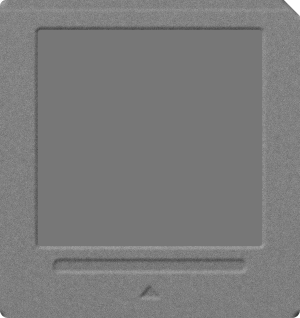
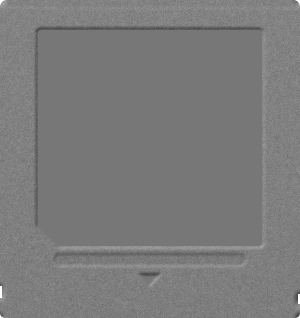
Align Nintendo DS Game Card model and label mask with authentic hardware references

diff --git a/tools/fragile/media/draw_carts.py b/tools/fragile/media/draw_carts.py
@@ -350,39 +350,75 @@ def nes():
 
 
 def nds():
-    """A Nintendo DS Game Card (NTR-005), face on (35.0mm x 33.0mm, scaled to 300x318):
-    square-like silhouette with rounded corners, a 45-degree keying chamfer notch at the
-    top-right, a recessed square label well, a subtle thumb grip groove across the lower
-    section, and an upward insertion arrow centered at the bottom."""
+    """A Nintendo DS Game Card (NTR-005), face on (33.0mm x 35.0mm, scaled to 300x318):
+    square-like silhouette with rounded corners, side keying slots near the bottom,
+    a recessed square label well with a 45-degree chamfer cutout at the bottom-left,
+    a subtle thumb grip groove across the lower chin, and a downward insertion arrow
+    centered below the label."""
     W, H = 300, 318
     s = Shell(W, H, seed=4, face=3.0, deepest=2.5)
 
-    # 1. Base outline: rounded corners, top-right chamfer
-    s.outline(0, 0, W, H, radii=(6, 2, 8, 8))
+    # 1. Base outline: rounded corners all around (top r=7, bottom r=5)
+    s.outline(0, 0, W, H, radii=(7, 7, 5, 5))
 
-    # Top-right 45-degree chamfer notch (16px cut)
-    def in_chamfer(x, y):
-        return x >= W - 16 and y <= 16 and (x - (W - 16)) + (16 - y) >= 16
+    # Side keying notches on left and right edges near bottom
+    s.cut(0, 286, 2, 298)
+    s.cut(W - 2, 294, W, 304)
 
-    for i, c in s.cover(in_chamfer, (W - 18, 0, W, 18)):
-        s.mask[i] *= 1 - c
+    # Top edge bevel / rim (y: 0..8)
+    s.height(0, 0, W, 8, 2.7)
+    s.height(0, 8, W, H, 3.0)
 
-    # Top edge bevel / rim (y: 0..10)
-    s.height(0, 0, W, 10, 2.5)
-    s.height(0, 10, W, H, 3.0)
-
-    # 2. Label well: recessed, almost square (224x216)
+    # 2. Label well: recessed, 224x216, at (38, 30)
     lx0, ly0, lx1, ly1 = 38, 30, 262, 246
-    s.height(lx0 - 1.5, ly0 - 1.5, lx1 + 1.5, ly1 + 1.5, 1.2, radii=(4, 4, 4, 4))
-    s.paint(lx0, ly0, lx1, ly1, LABEL, r=3)
+    chamfer = 20.0
 
-    # 3. Lower thumb grip groove (y: 260..272, x: 54..246)
-    gx0, gy0, gx1, gy1 = 54, 260, 246, 272
-    s.height(gx0, gy0, gx1, gy1, 1.5, r=5)
+    def in_label(x, y):
+        if not (lx0 <= x < lx1 and ly0 <= y < ly1):
+            return False
+        # Top-left, top-right, bottom-right radii (r=4)
+        for rr, cx, cy, left, top in (
+            (4, lx0 + 4, ly0 + 4, True, True),
+            (4, lx1 - 4, ly0 + 4, False, True),
+            (4, lx1 - 4, ly1 - 4, False, False),
+        ):
+            if (x < cx if left else x > cx) and (y < cy if top else y > cy):
+                if (x - cx) ** 2 + (y - cy) ** 2 > rr * rr:
+                    return False
+        # Bottom-left 45-degree chamfer
+        if x < lx0 + chamfer and y > ly1 - chamfer:
+            if (lx0 + chamfer - x) + (y - (ly1 - chamfer)) > chamfer:
+                return False
+        return True
 
-    # 4. Upward insertion arrow centered at bottom (x: 150, y: 286..298)
+    # Well height recess (1.2 height vs 3.0 face)
+    def in_well(x, y):
+        wx0, wy0, wx1, wy1 = lx0 - 1.5, ly0 - 1.5, lx1 + 1.5, ly1 + 1.5
+        wch = chamfer + 1.5
+        if not (wx0 <= x < wx1 and wy0 <= y < wy1):
+            return False
+        for rr, cx, cy, left, top in (
+            (4, wx0 + 4, wy0 + 4, True, True),
+            (4, wx1 - 4, wy0 + 4, False, True),
+            (4, wx1 - 4, wy1 - 4, False, False),
+        ):
+            if (x < cx if left else x > cx) and (y < cy if top else y > cy):
+                if (x - cx) ** 2 + (y - cy) ** 2 > rr * rr:
+                    return False
+        if x < wx0 + wch and y > wy1 - wch:
+            if (wx0 + wch - x) + (y - (wy1 - wch)) > wch:
+                return False
+        return True
+
+    s.height_where(in_well, (lx0 - 2, ly0 - 2, lx1 + 2, ly1 + 2), 1.2)
+    s.paint_where(in_label, (lx0, ly0, lx1, ly1), LABEL)
+
+    # 3. Lower thumb grip groove across the chin: y: 254..266, x: 54..246
+    s.height(54, 254, 246, 266, 2.0, r=6)
+
+    # 4. Downward insertion arrow centered on chin: x: 150, pointing DOWN
     mid = W / 2.0
-    tri = [(mid, 286.0), (mid - 10.0, 298.0), (mid + 10.0, 298.0)]
+    tri = [(mid - 11.0, 274.0), (mid + 11.0, 274.0), (mid, 286.0)]
 
     def in_arrow(x, y):
         (ax, ay), (bx, by), (cx, cy) = tri
@@ -393,7 +429,7 @@ def nds():
         pos = d1 > 0 or d2 > 0 or d3 > 0
         return not (neg and pos)
 
-    s.height_where(in_arrow, (mid - 12, 284, mid + 12, 300), 1.6)
+    s.height_where(in_arrow, (mid - 13, 272, mid + 13, 288), 1.2)
 
     return s, (lx0, ly0, lx1 - lx0, ly1 - ly0), None
 

diff --git a/crates/slot-ui/src/media.rs b/crates/slot-ui/src/media.rs
@@ -139,17 +139,58 @@ impl Media {
     }
 
     /// Where on the label box the label may print, for a medium whose print is not the whole box:
-    /// the disc's ring between its hub and rim. Coverage a pixel, row by row over the label box.
+    /// the disc's ring between its hub and rim, or the Nintendo DS card's chamfered label well.
+    /// Coverage a pixel, row by row over the label box.
     pub fn label_mask(self) -> Option<&'static [u8]> {
-        if self != Media::Disc {
-            return None;
+        match self {
+            Media::Disc => {
+                static RING: OnceLock<Vec<u8>> = OnceLock::new();
+                Some(RING.get_or_init(|| {
+                    let (_, _, w, h) = self.label();
+                    ring(w, h, PRINT_INNER, PRINT_OUTER)
+                }))
+            }
+            Media::Nds => {
+                static NDS_LABEL: OnceLock<Vec<u8>> = OnceLock::new();
+                Some(NDS_LABEL.get_or_init(|| {
+                    let (_, _, w, h) = self.label();
+                    nds_label_mask(w, h)
+                }))
+            }
+            _ => None,
         }
-        static RING: OnceLock<Vec<u8>> = OnceLock::new();
-        Some(RING.get_or_init(|| {
-            let (_, _, w, h) = self.label();
-            ring(w, h, PRINT_INNER, PRINT_OUTER)
-        }))
     }
+}
+
+/// An authentic Nintendo DS Game Card label mask (224x216): rounded top-left, top-right,
+/// and bottom-right corners (radius 4px), with a distinctive 45-degree chamfer cutout at
+/// the bottom-left corner (20px cut) matching real NTR-005 game cards.
+fn nds_label_mask(w: u32, h: u32) -> Vec<u8> {
+    let r = 4.0f32;
+    let chamfer = 20.0f32;
+    let mut out = Vec::with_capacity((w * h) as usize);
+    let sqrt2 = std::f32::consts::SQRT_2;
+    for y in 0..h {
+        let py = y as f32 + 0.5;
+        for x in 0..w {
+            let px = x as f32 + 0.5;
+            let mut cov = 1.0f32;
+            if px < r && py < r {
+                cov = cov.min((r - (r - px).hypot(r - py) + 0.5).clamp(0.0, 1.0));
+            } else if px > w as f32 - r && py < r {
+                cov = cov.min((r - (px - (w as f32 - r)).hypot(r - py) + 0.5).clamp(0.0, 1.0));
+            } else if px > w as f32 - r && py > h as f32 - r {
+                cov = cov.min(
+                    (r - (px - (w as f32 - r)).hypot(py - (h as f32 - r)) + 0.5).clamp(0.0, 1.0),
+                );
+            } else if px < chamfer && py > h as f32 - chamfer {
+                let d = (px - (py - (h as f32 - chamfer))) / sqrt2;
+                cov = cov.min((d + 0.5).clamp(0.0, 1.0));
+            }
+            out.push((cov * 255.0 + 0.5).clamp(0.0, 255.0) as u8);
+        }
+    }
+    out
 }
 
 /// A ring's coverage over a w by h box centred on it, the radii as fractions of the half width,
@@ -213,6 +254,24 @@ mod tests {
         assert_eq!(at(w / 2, h / 2), 0, "the hub was printed on");
         assert_eq!(at(w / 2, h / 10), 255, "the print is missing above the hub");
         assert_eq!(at(0, 0), 0, "the corner past the rim was printed on");
+    }
+
+    #[test]
+    fn the_nds_label_mask_cuts_the_bottom_left_corner() {
+        let mask = Media::Nds.label_mask().expect("nds has a label mask");
+        let (_, _, w, h) = Media::Nds.label();
+        let at = |x: u32, y: u32| mask[(y * w + x) as usize];
+        // Center is solid
+        assert_eq!(at(w / 2, h / 2), 255, "label center should be solid");
+        // Rounded corners
+        assert_eq!(at(0, 0), 0, "TL corner should be rounded");
+        assert_eq!(at(w - 1, 0), 0, "TR corner should be rounded");
+        assert_eq!(at(w - 1, h - 1), 0, "BR corner should be rounded");
+        // BL chamfer cut: corner (0, h-1) is cut out
+        assert_eq!(at(0, h - 1), 0, "BL corner should be chamfered");
+        assert_eq!(at(2, h - 3), 0, "inside BL chamfer cut should be 0");
+        // Right along the bottom edge past the chamfer (x > 25) is solid
+        assert_eq!(at(30, h - 1), 255, "bottom edge past chamfer should be solid");
     }
 
     #[test]
